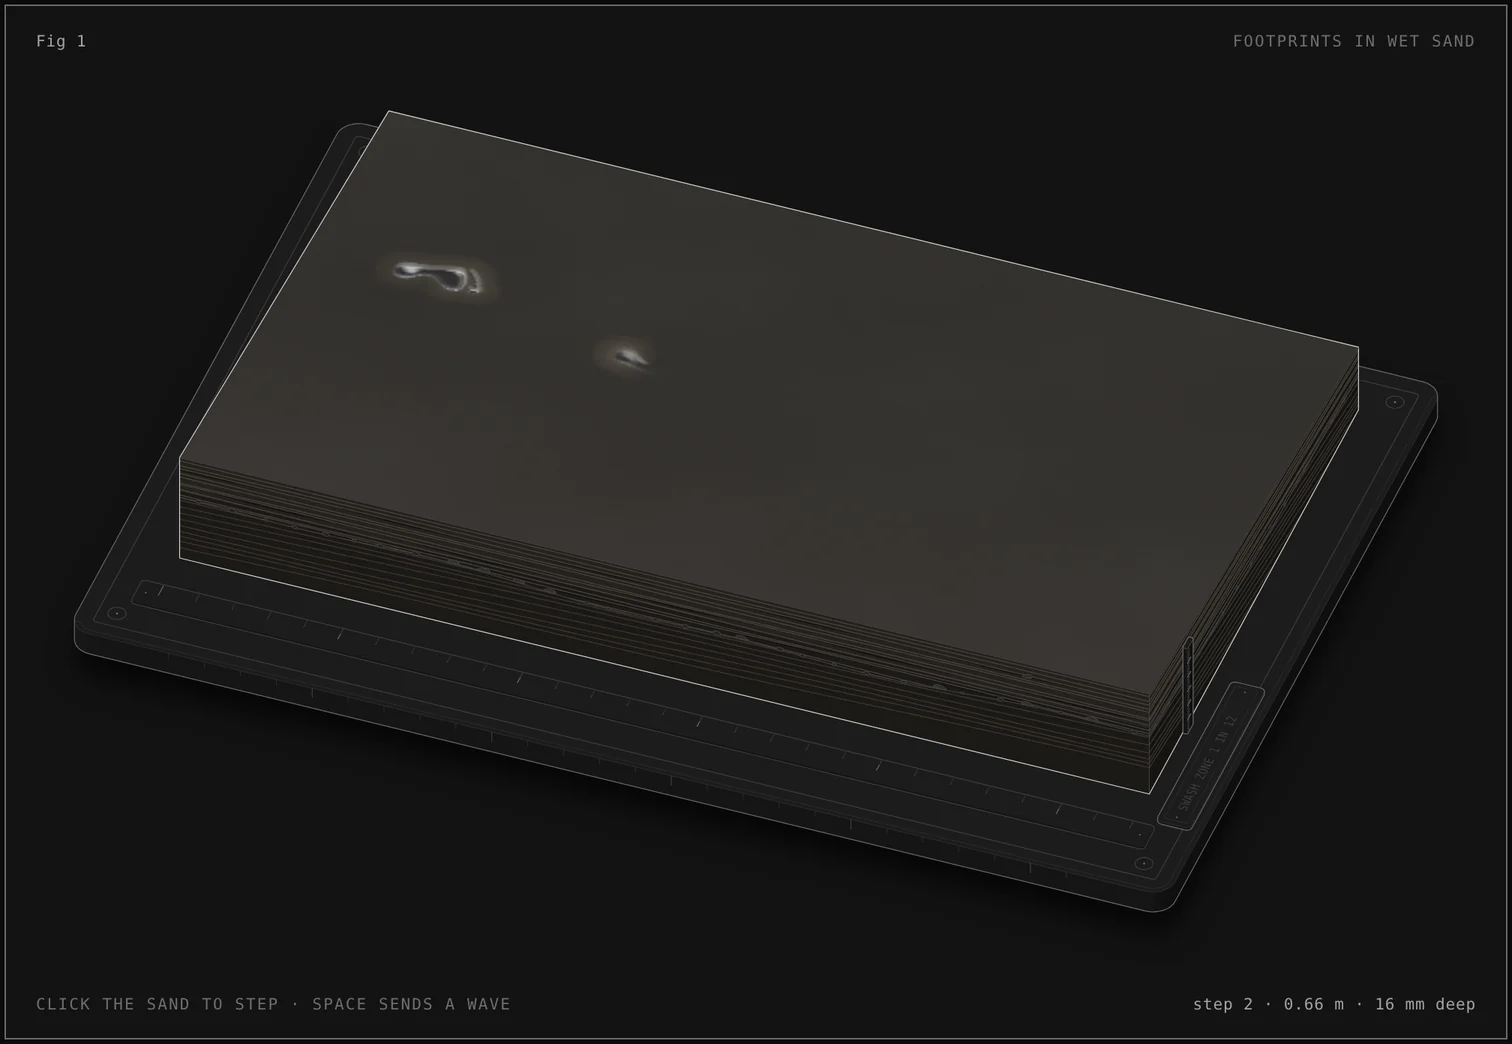
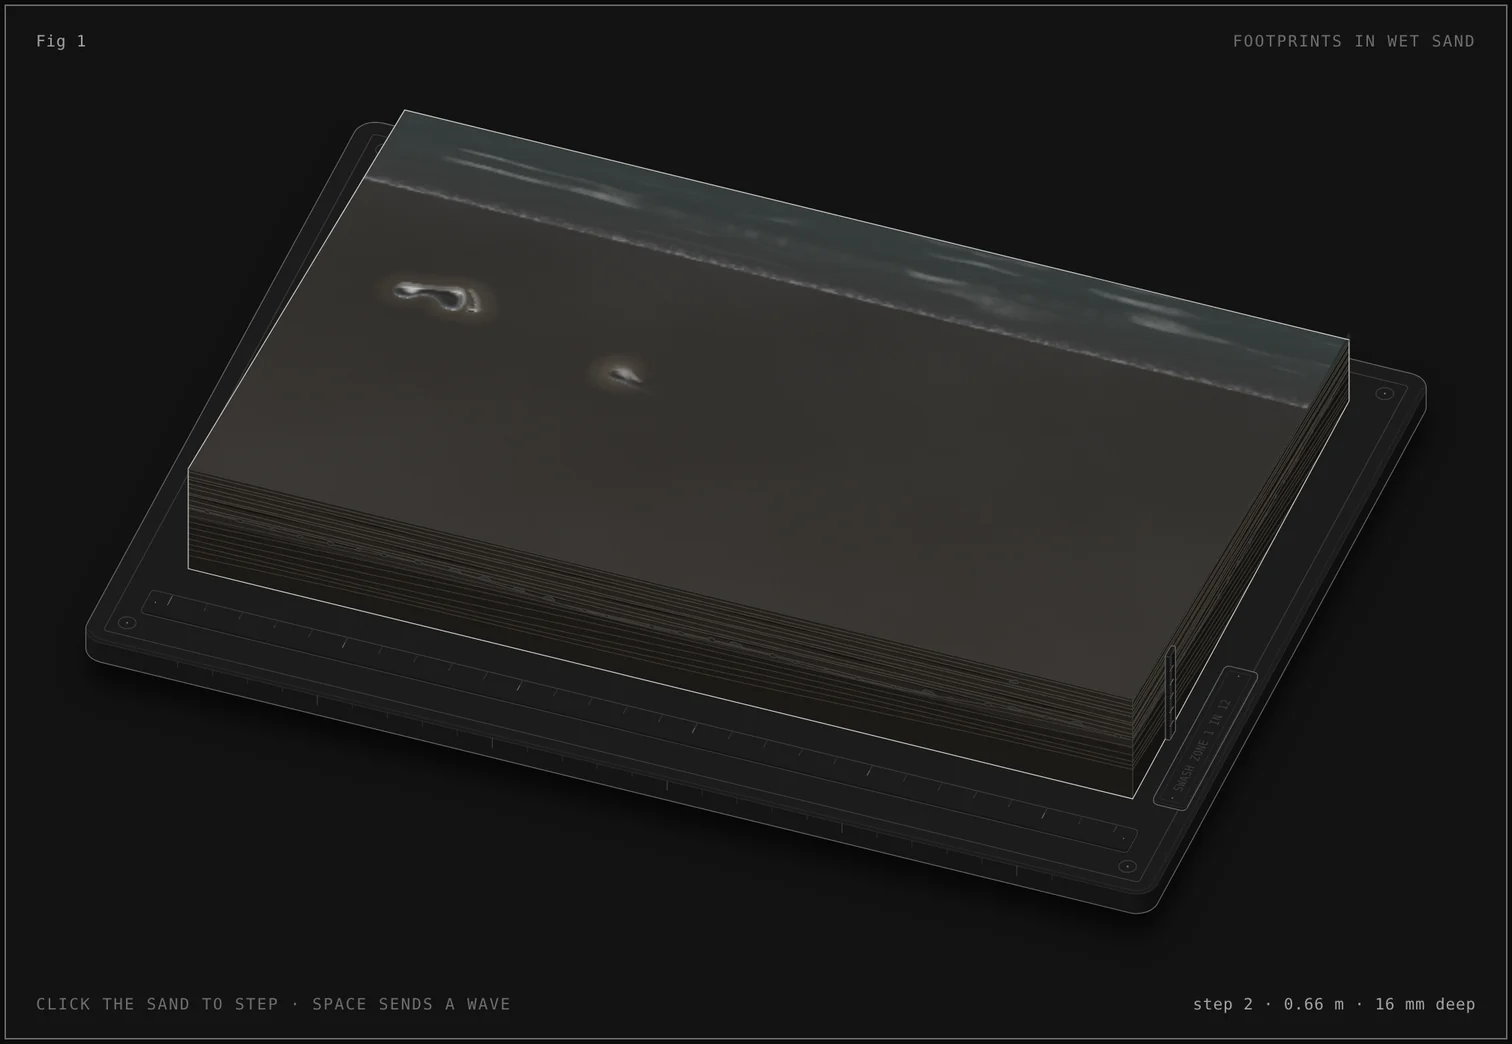
Footprints: re-shoot stills and loop with the lapping sea
Claude-Session: https://claude.ai/code/session_0171zceWWsnxJddpDdoDrt4v

diff --git a/footprints-in-wet-sand/README.md b/footprints-in-wet-sand/README.md
@@ -6,9 +6,9 @@ An interactive isometric figure, built with the [Anatomy](https://github.com/whe
 
 | | Light | Dark |
 |---|---|---|
-| A foot presses in, heel first, ringed by pale drained sand | <img src="shots/light-press.webp" width="360" alt=""> | <img src="shots/dark-press.webp" width="360" alt=""> |
+| A foot presses in while the sea laps at the back | <img src="shots/light-press.webp" width="360" alt=""> | <img src="shots/dark-press.webp" width="360" alt=""> |
 | Four prints, water pooled in the heels and balls | <img src="shots/light-prints.webp" width="360" alt=""> | <img src="shots/dark-prints.webp" width="360" alt=""> |
-| The swash slides in with its foam front | <img src="shots/light-swash.webp" width="360" alt=""> | <img src="shots/dark-swash.webp" width="360" alt=""> |
+| The bore crosses the shallows and its swash slides up | <img src="shots/light-swash.webp" width="360" alt=""> | <img src="shots/dark-swash.webp" width="360" alt=""> |
 | Backwash: the prints are gone, foam is stranded | <img src="shots/light-backwash.webp" width="360" alt=""> | <img src="shots/dark-backwash.webp" width="360" alt=""> |
 | Smooth again, the glossy film draining | <img src="shots/light-smooth.webp" width="360" alt=""> | <img src="shots/dark-smooth.webp" width="360" alt=""> |
 
